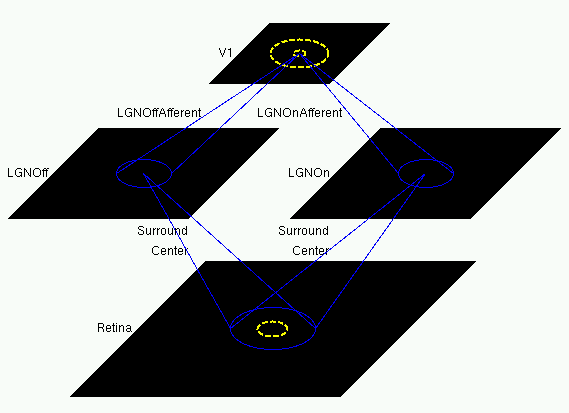
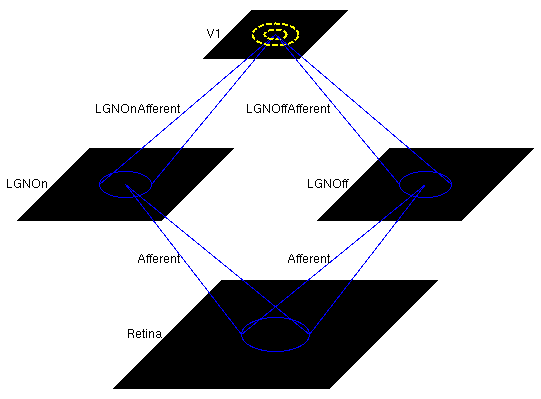
Minor updates (including lissom_oo_or network diagram.

Changed region(s): [[0.0, 0.0, 1.0, 0.9925]]

diff --git a/doc/Tutorials/lissom_oo_or_text.php b/doc/Tutorials/lissom_oo_or_text.php
@@ -68,10 +68,9 @@ synaptic weights. The architecture can be viewed in the <span
 class='w_title'>Model Editor</span> window (which can be selected from
 the <span class='t_item'>Simulation</span> menu), but is also shown
 below:
-<!--CEBALERT: image needs updating-->
 <p class='center'>
 <img src="images/lissom_network_diagram_oo.png" alt="LISSOM network"
-align="middle" WIDTH="569" HEIGHT="413">
+align="middle" WIDTH="541" HEIGHT="399">
 </p>
 
 <p></p>

diff --git a/doc/Tutorials/gca_lissom_text.php b/doc/Tutorials/gca_lissom_text.php
@@ -645,6 +645,7 @@ Finally, you might also be interested in observing in more detail how
 the orientation map develops over time. c.f. lissom_oo_or, which
 starts with big patches that shrink (exc rad shrink vs
 homeost);lissom_oo_or map dev less stable
+? could include tuning curve width scale invariance
 </li>
 -->
 
